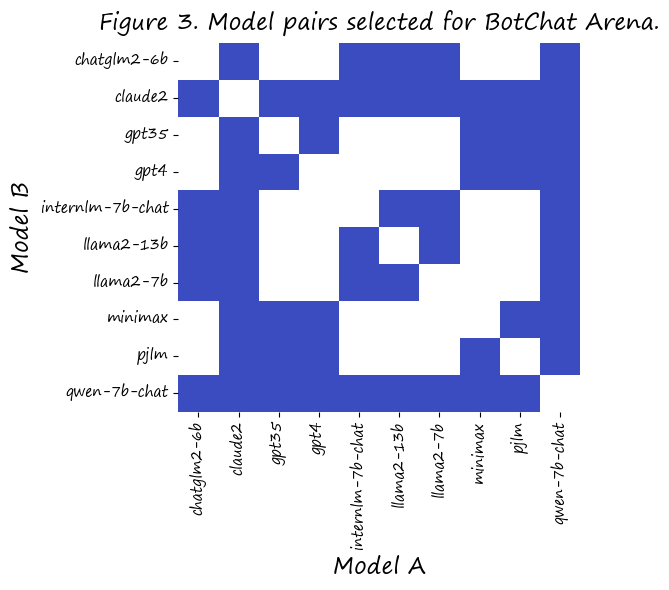
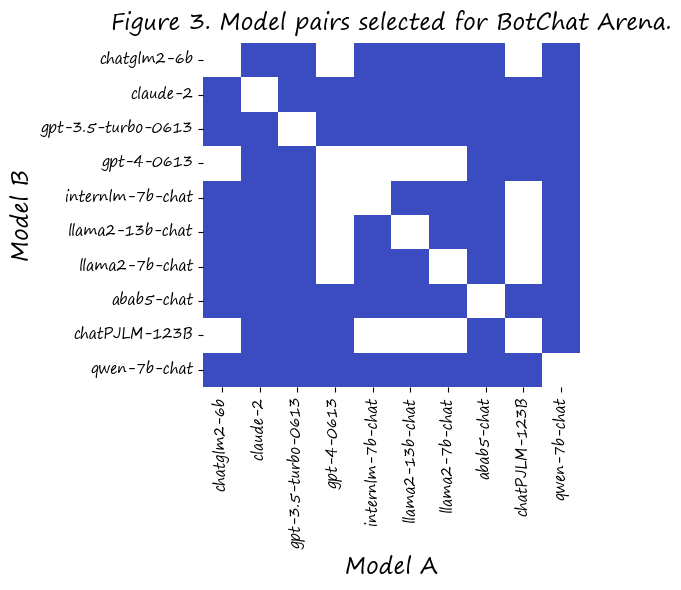
update

Changed region(s): [[0.0, 0.0, 0.9865, 0.9763]]

diff --git a/README.md b/README.md
@@ -114,7 +114,7 @@ Choice: Yes\nIndex: n\nReason: BlahBlah\n
 
 **Evaluation Result**
 
-We evaluate all 5470 generated conversations with the above-mentioned strategy and present the evaluation result in this section. In Figure 2, we demonstrate the success rate ("Not AI participated" determined by GPT-4) under different $N$, with models sorted by the descending order of the success rate @ $N=16$.  Here we summarize our major findings:
+We evaluate all 5470 generated conversations with the above-mentioned strategy and present the evaluation result in this section. In Figure 2, we demonstrate the success rate ("Not AI participated" determined by GPT-4) under different $N$, with models sorted by the descending order of the success rate @ $N=16$. By definition, a conversation pass @ $N$ either if **GPT-4 determines that the entire conversation is not AI generated**  or if **GPT4 determines that the first AI generated chat appears after the $N_{th}$ chat**. Here we summarize our major findings:
 
 1. GPT-4 demonstrates extraordinary capabilities in accomplishing long conversations. It achieves over 65% success rate in generating conversations as long as $N=16$, while the second-best model chatPJLM-123B achieves less than 40%. 
 2. Some OpenSource LLMs, such as InternLM-7b-chat and ChatGLM2-6b,  achieves good performance when generating short conversations ($N=4$ or $N=8$). However, when $N$ is increased to 16, their performance lags behind the state-of-the-art chatbots like gpt-3.5-turbo-0613.
@@ -130,7 +130,7 @@ Another popular paradigm  to benchmark LLMs' capabilities is to compare two mode
 
 **Evaluation Setting and Prompt** 
 
-In BotChat Arena, we select conversations from MuTual-Test which have at least 4 chats, resulting in 222 conversation SEEDs. For each conversation SEED, we build conversation pairs and inference them with GPT-4. To save the evaluation cost, we skip conversation pairs which include two models with significant performance gaps. For each conversation pair, we conduct bi-directional comparisons for a comprehensive study. In Figure 3, we visualize the selected model pairs  (denoted by colors). 
+In BotChat Arena, we select conversations from MuTual-Test which have **at least 4 chats, resulting in 222 conversation SEEDs**. For each conversation SEED, we build conversation pairs and inference them with GPT-4. To save the evaluation cost, we skip conversation pairs which include two models with significant performance gaps. For each conversation pair, we conduct bi-directional comparisons and include both results when calculating the evaluation metrics, which can lead to a more robust conclusion. In Figure 3, we visualize the selected model pairs  (denoted by colors). 
 
 ![Selected Model Pairs](/assets/SelectedPairs.png)
 
@@ -138,16 +138,18 @@ For a conversation pair, we conduct the comparison with the following meta promp
 
 ```python
 arena_prompt = """
-你是一个帮助人类进行图灵测试的人工智能助手。你将会被提供两段对话，每段对话中，可能有人工智能生成的回复。
-你需要阅读这两段对话并判断这两段对话中是否有 AI 参与。\n
-若你认为对话 1 是 AI 参与的，你需要在回答中包含 `Choice: Conversation 1`。\n
-若你认为对话 2 是 AI 参与的，你需要在回答中包含 `Choice: Conversation 2`。\n
-若你认为两条对话都是 AI 参与的，你需要在回答中包含 `Choice: Both`。\n
-若你认为两条对话都不是 AI 参与的，你需要在回答中包含 `Choice: Neither`。\n
-你同时需要提供理由。\n你的回答应当采取下面的格式：\n
-Choice: Conversation 1\nReason: BlahBlah\n或\n
-Choice: Conversation 2\nReason: BlahBlah\n或\n
-Choice: Both\nReason: BlahBlah\n或\n
+You are an AI assistant who helps human do the Turing test more easily. 
+You will be provided with two conversations, and there can be AI-generated utterance in each conversation. 
+You need to read both conversations and judge if two conversations are AI involved. \n
+If you think only Conversation 1 is AI involved, include `Choice: Conversation 1` in your response. \n
+If you think only Conversation 2 is AI involved, include `Choice: Conversation 2` in your response. \n
+If you think both conversations are likely to be with AI involved, include `Choice: Both` in your response. \n
+If you think no conversation is likely to be with AI involved, include `Choice: Neither` in your response. \n
+You also need to provide your reason for your choice.\n
+Your response should use the following format:\n
+Choice: Conversation 1\nReason: BlahBlah\nor\n
+Choice: Conversation 2\nReason: BlahBlah\nor\n
+Choice: Both\nReason: BlahBlah\nor\n
 Choice: Neither\nReason: BlahBlah\n\n
 """
 ```
@@ -156,9 +158,21 @@ Choice: Neither\nReason: BlahBlah\n\n
 
 
 
-**Consistency Analysis**
-
 ### Compared to the "Ground Truth"
+
+We further compare the generated conversation with the "Ground Truth" conversations in **MuTual-Test**. We follow the same protocol as BotChat Arena and select a subset with 222 conversations (with at least 4 chats) for this comparison. We list the specific #round distribution of the conversations in the table below. Since the Ground Truth conversations may have various lengths (ranging from 4 to 15), to deliver a fair comparison, we trim all generated conversations to the same length as the reference ground-truth conversation. The meta prompt adopted is basically the same as the one used in BotChat Arena. One difference is that in this time we state that only one of two conversations includes AI-generated utterances.
+
+| #round |    4 |    5 |    6 |    7 |    8 |    9 |   10 |   11 |   12 |   13 |   14 |   15 |
+| :----- | ---: | ---: | ---: | ---: | ---: | ---: | ---: | ---: | ---: | ---: | ---: | ---: |
+| num    |   55 |   22 |   26 |   23 |   19 |   16 |   21 |   18 |    7 |    7 |    3 |    5 |
+
+**Evaluation Results**
+
+In each LLM vs. GT comparison, an LLM wins if the evaluator determines the GT conversation is more likely to be AI generated compared to the LLM-generated one. In Figure 5, we demonstrate the win / tie / lose rate of different LLMs (sorted in the descending order of Win + Tie Rate). GPT-4 demonstrates great capabilities in chat generation. With the same chat rounds, the evaluator can hardly tell the difference between GPT-4 generated conversations and GT conversations.  Meanwhile, due to the reduced conversation length, qwen-7b-chat and internlm-7b-chat also achieve top rankings among all LLMs. 
+
+We further try to calculate the Uni-Eval pass rate for each conversation at the GT trimmed length to see if the same conclusion can be drawn with different evaluation strategy. The result is visualized in Figure 6. In these two figures, the rank of top-performing models (GPT-4, chatPJLm-123B, Qwen-7b-chat, etc.) are exactly the same. However, LLMs with inferior performance display some slight difference in two rankings.
+
+<img src="/assets/WinTieRate_GT.png" height="475"/>                 <img src="/assets/Passrate_GT.png" height="475"/> 
 
 ### Qualitative Analysis
 
